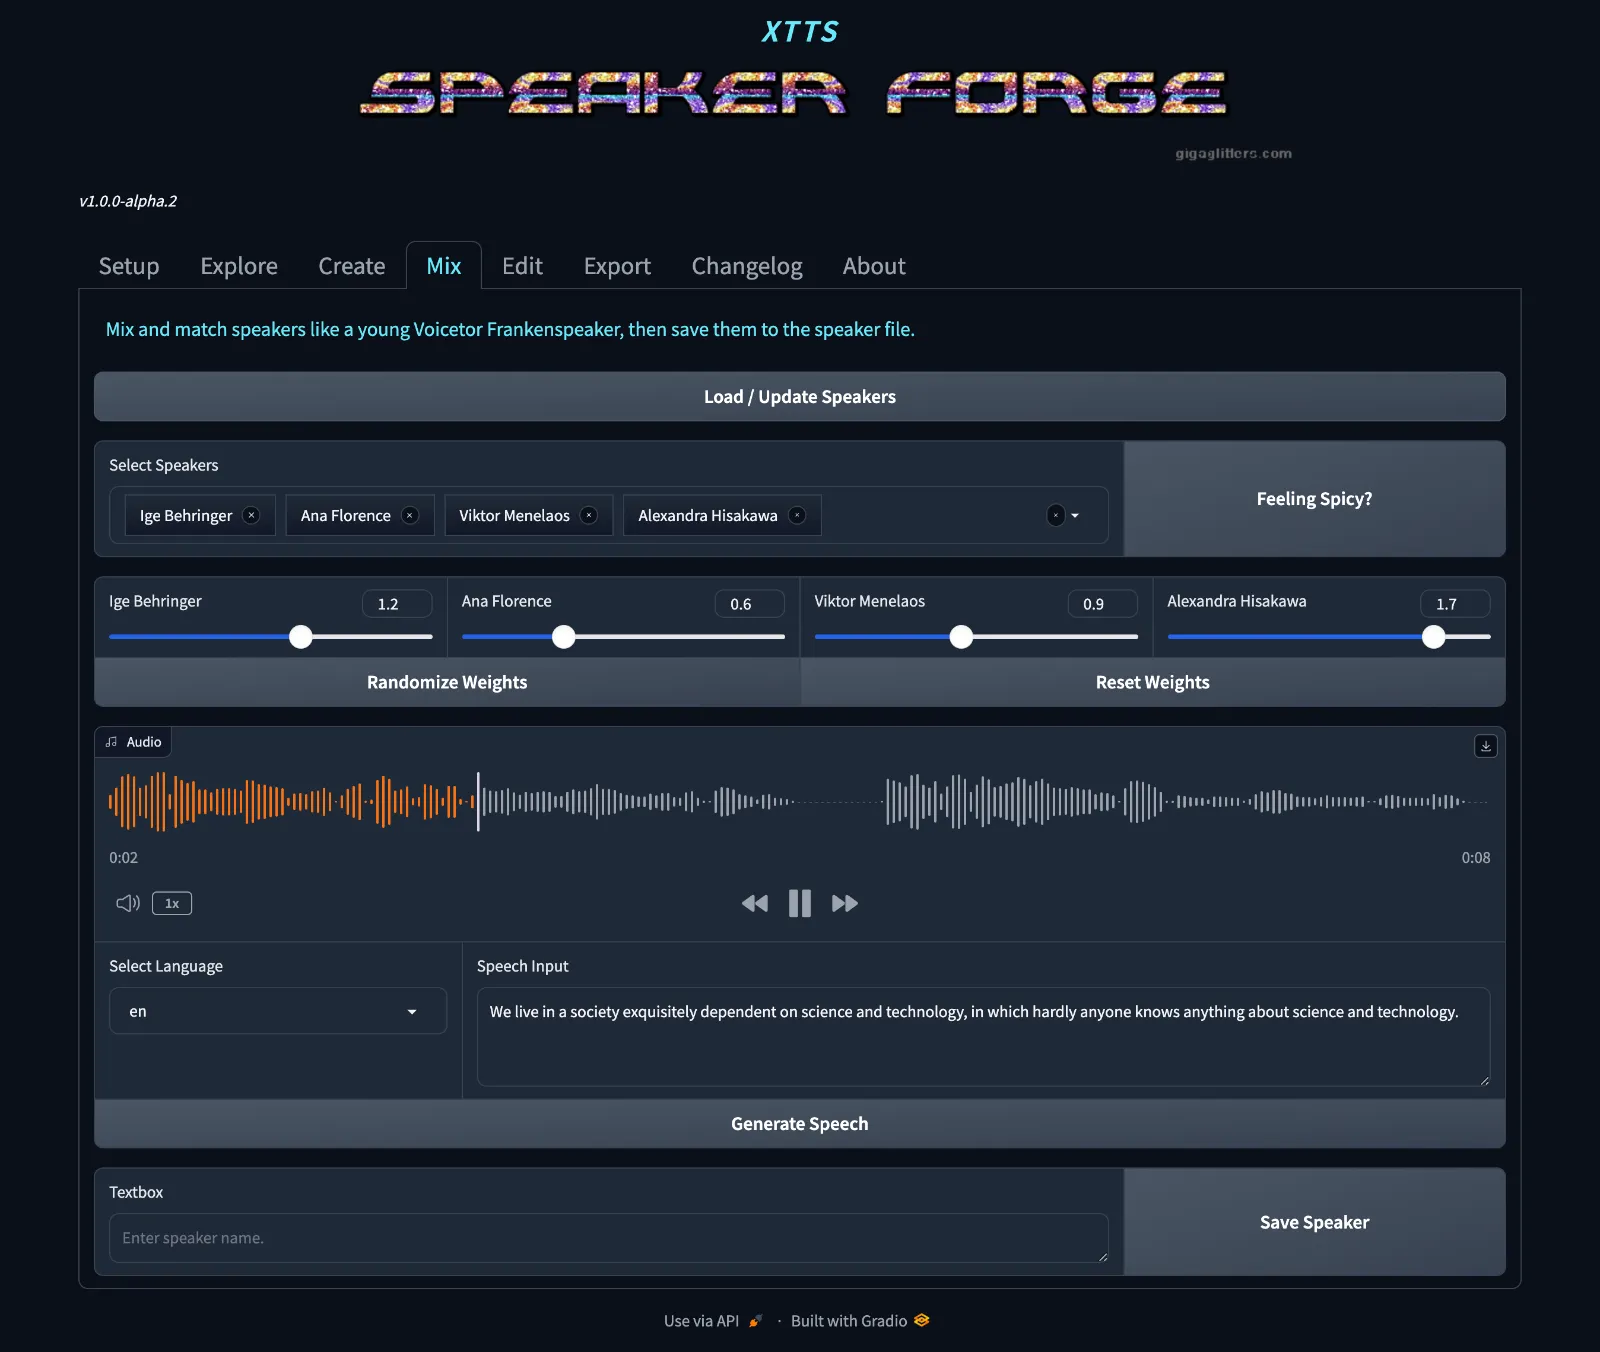
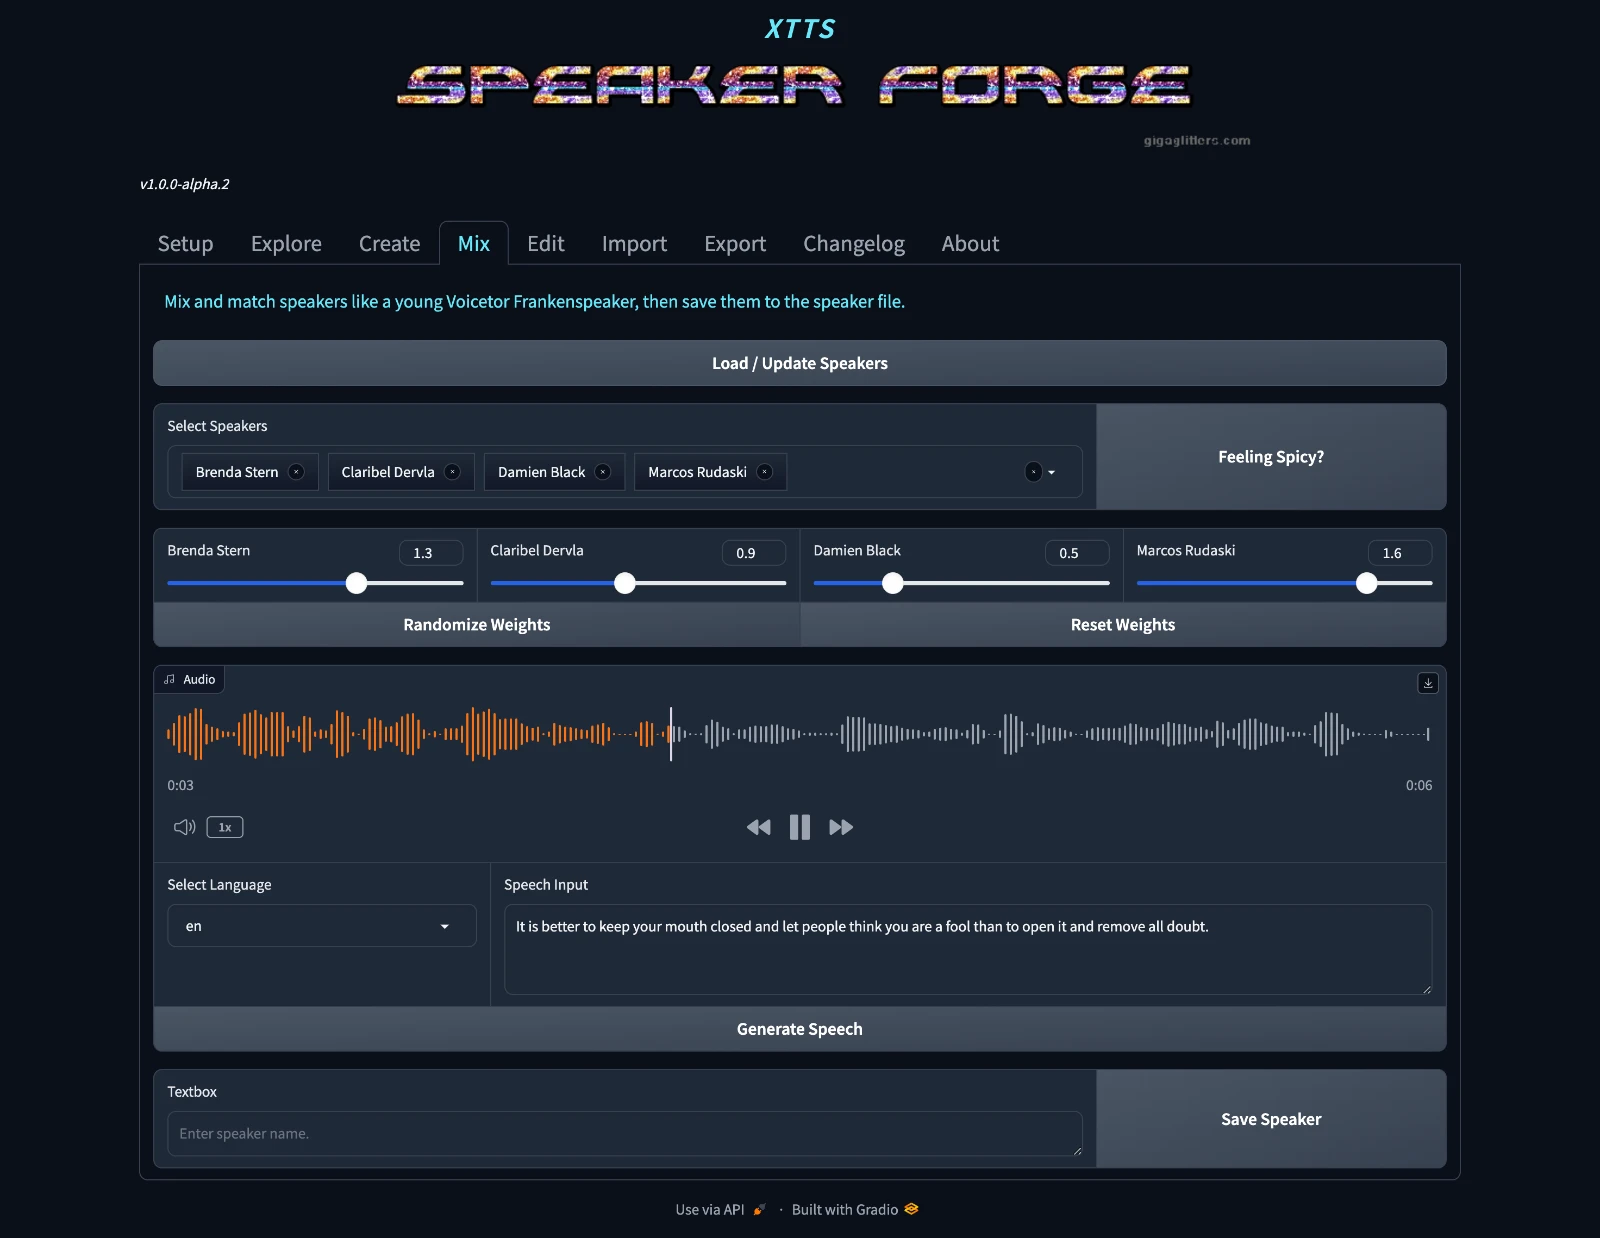
chore: update docs for 1.0.0-alpha-3 changes

diff --git a/README.md b/README.md
@@ -1,6 +1,6 @@
 # XTTS Speaker Forge
 
-_A Gradio interface for Exploring, Creating, Editing, Mixing, and Exporting Speakers for the Coqui XTTS model._
+_A Gradio interface for Exploring, Creating, Editing, Mixing, Importing and Exporting Speakers for the Coqui XTTS model._
 
 <img src="./screenshots/speaker_forge_mix.webp" alt="Speaker Forge Mix" style="max-width: 700px;" />
 
@@ -34,6 +34,7 @@ If you encounter package install errors during step #4 of "Run locally" try the 
 <li><img src="./screenshots/speaker_forge_create.webp" width="450" alt="Speaker Forge Create" /></li>
 <li><img src="./screenshots/speaker_forge_mix.webp" width="450" alt="Speaker Forge Mix" /></li>
 <li><img src="./screenshots/speaker_forge_edit.webp" width="450" alt="Speaker Forge Edit" /></li>
+<li><img src="./screenshots/speaker_forge_import.webp" width="450" alt="Speaker Forge Import" /></li>
 <li><img src="./screenshots/speaker_forge_export.webp" width="450" alt="Speaker Forge Export" /></li>
 </ul>
 
@@ -43,6 +44,6 @@ If you encounter package install errors during step #4 of "Run locally" try the 
 - [x] Add "Edit" mode to allow renaming and deleting speakers, and adding additional speaker meta data.
 - [ ] Audio file caching to quickly playback recently generated audio files.
 - [ ] Allow editing model file paths in Gradio interface (if feasible)
-- [ ] Allow direct upload / import of speaker files (if feasible)
+- [x] Allow direct upload / import of speaker files
 - [ ] Explore adding different voice mixing methods.
 - [ ] Ability to filter speakers based on metadata created in Edit view in Explore view.

diff --git a/CHANGELOG.md b/CHANGELOG.md
@@ -1,3 +1,12 @@
+# 1.0.0-alpha.3 (2024-02-29)
+
+## Features
+
+- Add Import View: ability import speakers from a separate speaker file into the current list of speakers.
+- A temp speaker file is now used during app edits to avoid mutating the original speaker file.
+- A few additions to the speaker metadata selectable attribute lists
+- Code refactoring and file reorganization to improve dev sanity level.
+
 # 1.0.0-alpha.2 (2024-02-28)
 
 ## Features
